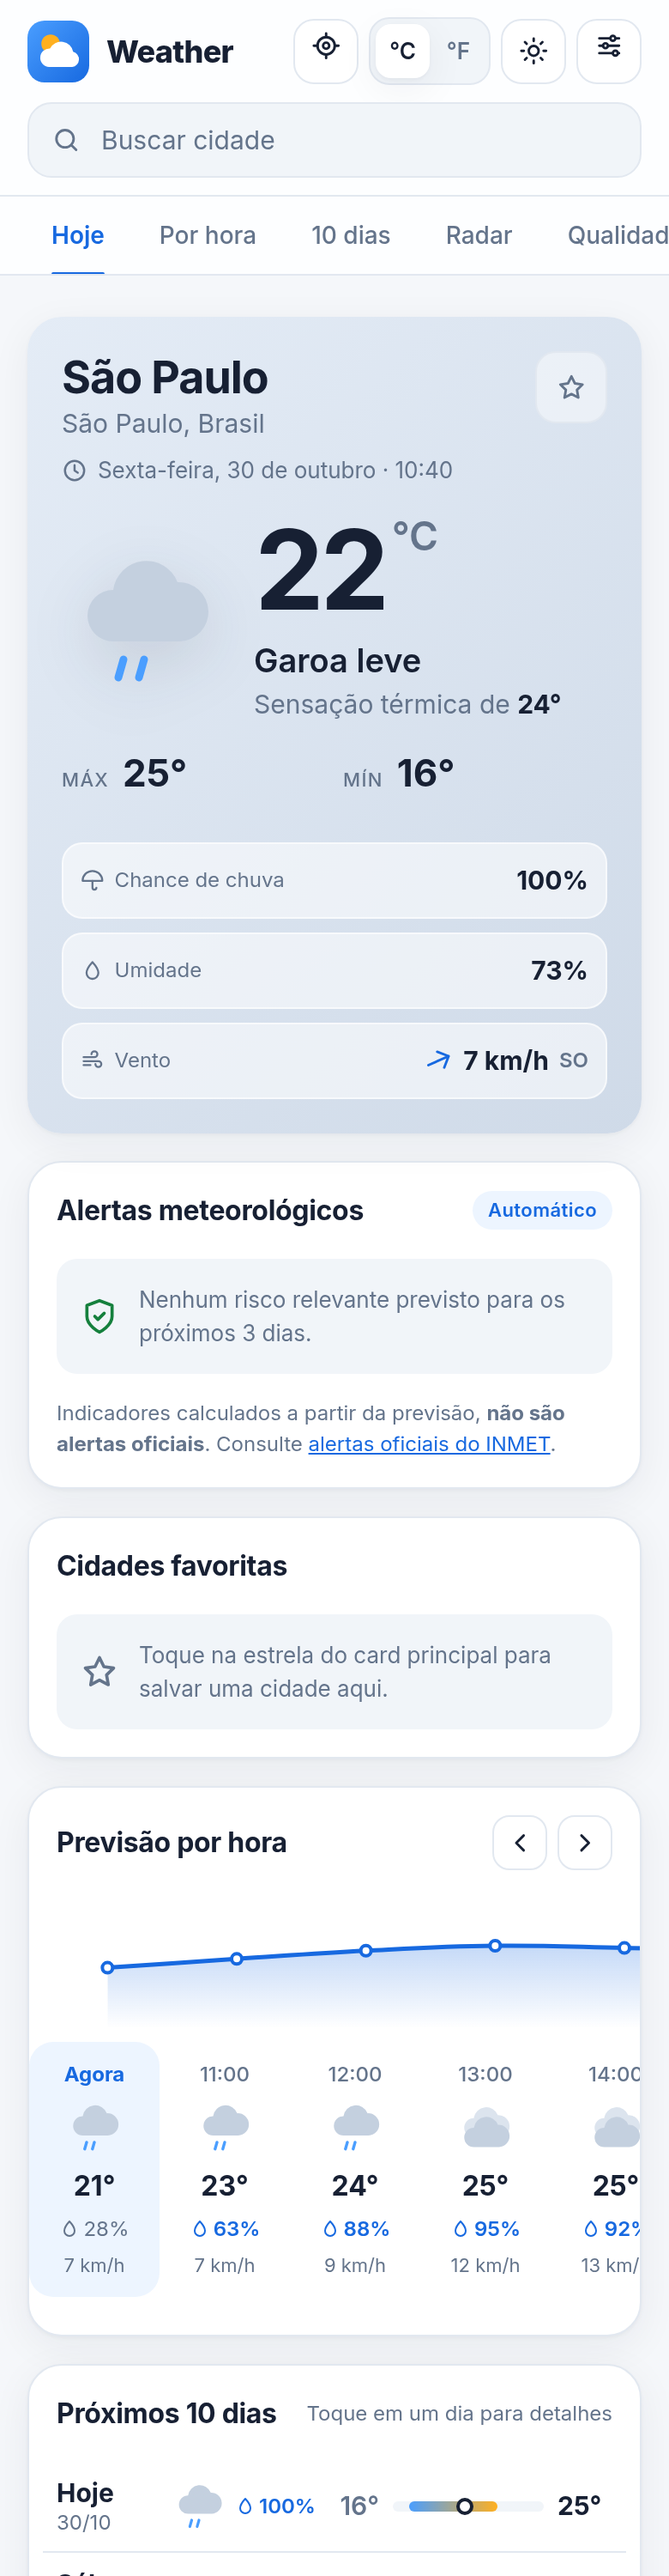
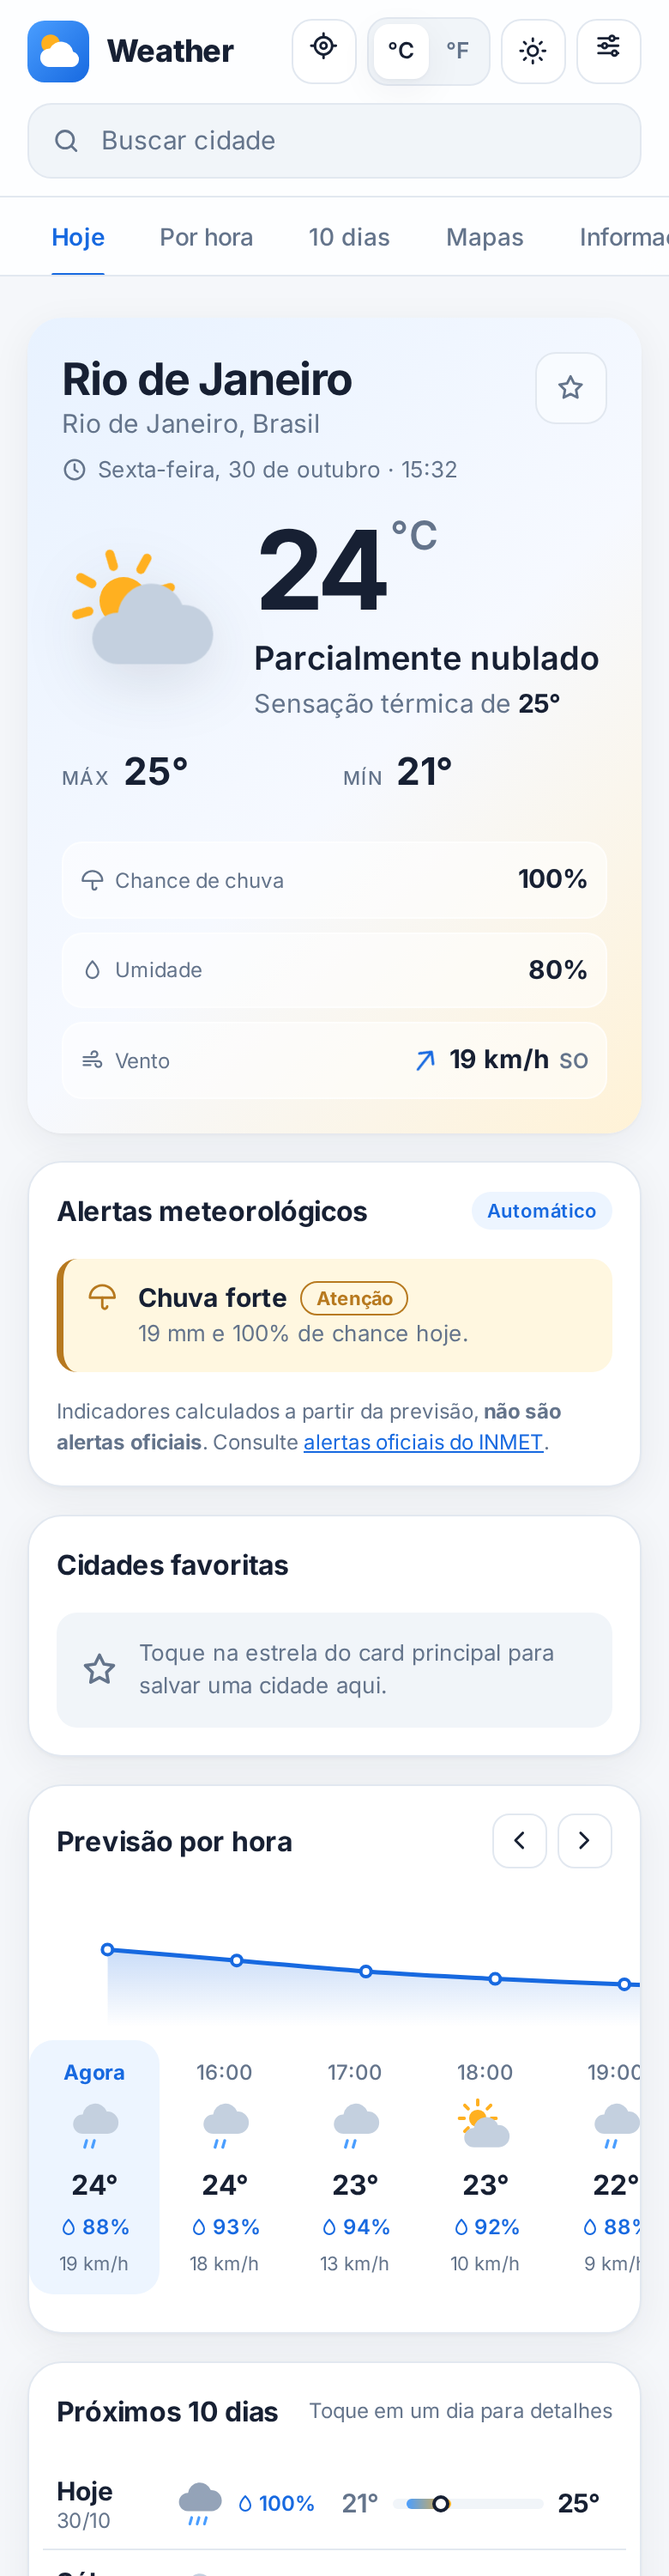
Atualiza os prints e adiciona os prints do mapa com vento e nuvens

diff --git a/README.md b/README.md
@@ -20,6 +20,15 @@ Tem duas formas de usar: no terminal e num painel web completo.
   </tr>
 </table>
 
+### Mapa com vento e nuvens
+
+<table>
+  <tr>
+    <td width="50%"><strong>Vento (modo escuro)</strong><br><img src="docs/mapa-vento.png" alt="Mapa do Rio de Janeiro no modo escuro com partículas coloridas mostrando a previsão do vento"></td>
+    <td width="50%"><strong>Nuvens (modo claro)</strong><br><img src="docs/mapa-nuvens.png" alt="Mapa do Rio de Janeiro no modo claro com as nuvens da imagem de satélite GOES-East por cima"></td>
+  </tr>
+</table>
+
 **No terminal**
 
 ```
